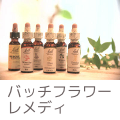
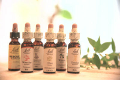
icon変更

diff --git a/trunk/css/main.css b/trunk/css/main.css
@@ -256,12 +256,22 @@ div.search-form
     top:8px;
     left:38px;
 }
+#headImage1s
+{
+    position:relative;
+    left:450px;
+}
 #headImage2
 {
     border: 0px;
     position:relative;
     top:8px;
     left:44px;
+}
+#headImage2s
+{
+    position:relative;
+    left:515px;
 }
 #headImage3
 {
@@ -270,13 +280,22 @@ div.search-form
     top:8px;
     left:50px;
 }
-
+#headImage3s
+{
+    position:relative;
+    left:550px;
+}
 #headImage4
 {
     border: 0px;
     position:relative;
     top:8px;
     left:56px;
+}
+#headImage4s
+{
+    position:relative;
+    left:550px;
 }
 
 .news .summary

diff --git a/trunk/protected/views/layouts/main.php b/trunk/protected/views/layouts/main.php
@@ -30,10 +30,20 @@ $imageUrl=$baseUrl.'/systemImages/';
 ?>
 	<div id="header" style="line-height:0px;">
 <?php echo CHtml::link(CHtml::image($imageUrl.'morning-dew-title-dark.png','', array('id'=>'titleImage')),preg_replace('/(admin|index)\.php/', '', $this->createUrl('/')), array('id'=>'titleImage')); ?>
+
 <?php echo CHtml::link(CHtml::image($imageUrl.'icon1.png','image1',array('id'=>'headImage1')),array('/article/show', 'id'=>2), array('id'=>'headImage1')); ?>
 <?php echo CHtml::link(CHtml::image($imageUrl.'icon2.png','image2',array('id'=>'headImage2')),array('/article/show', 'id'=>3), array('id'=>'headImage2')); ?>
 <?php echo CHtml::link(CHtml::image($imageUrl.'icon3.png','image3',array('id'=>'headImage3')),array('/article/show', 'id'=>4), array('id'=>'headImage3')); ?>
 <?php echo CHtml::link(CHtml::image($imageUrl.'icon4.png','image4',array('id'=>'headImage4')),array('/article/show', 'id'=>5), array('id'=>'headImage4')); ?>
+
+<div>
+  <br />
+  <span id="headImage1s">アロマテラピー</span>
+  <span id="headImage2s">ハーブ</span>
+  <span id="headImage3s">バッチフラワーレメディ</span>
+  <span id="headImage4s">ホリスティックケア</span>
+</div>
+
 
 	</div><!-- header -->
 
